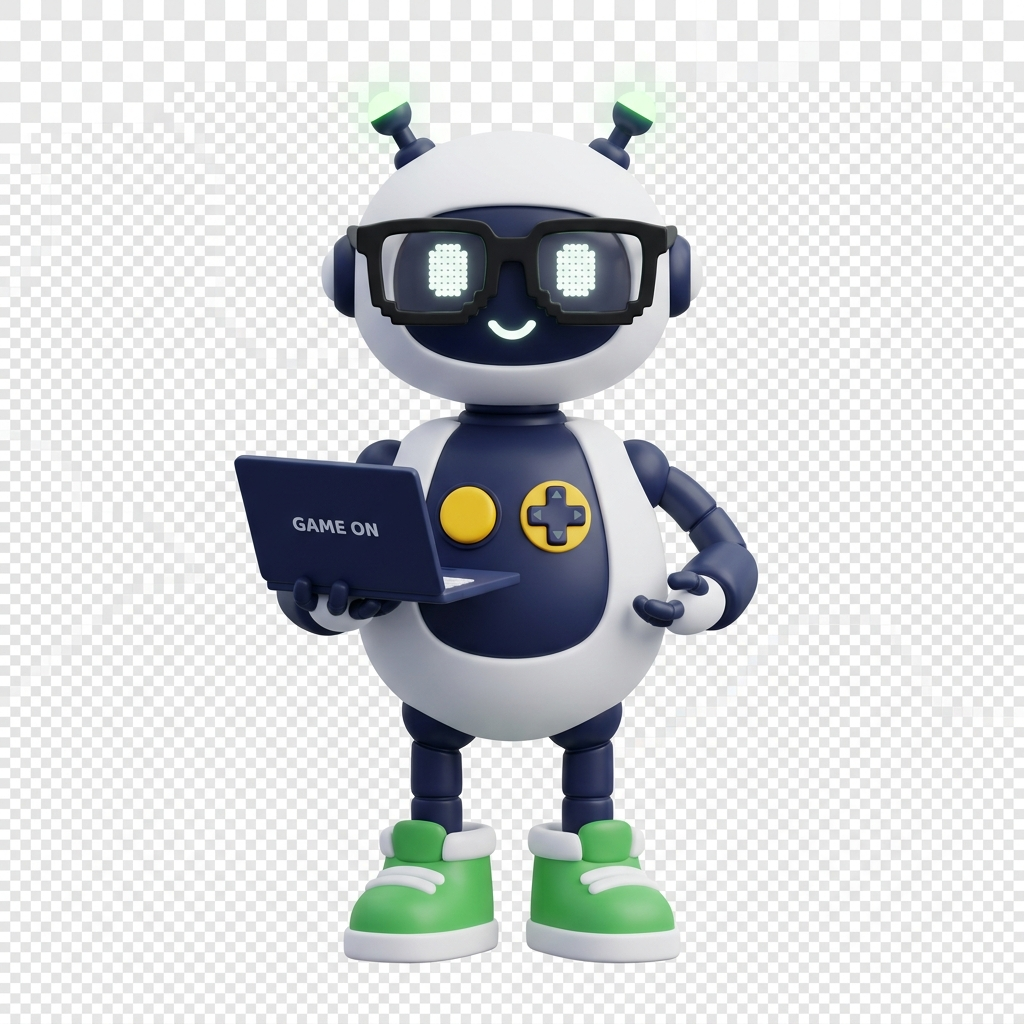
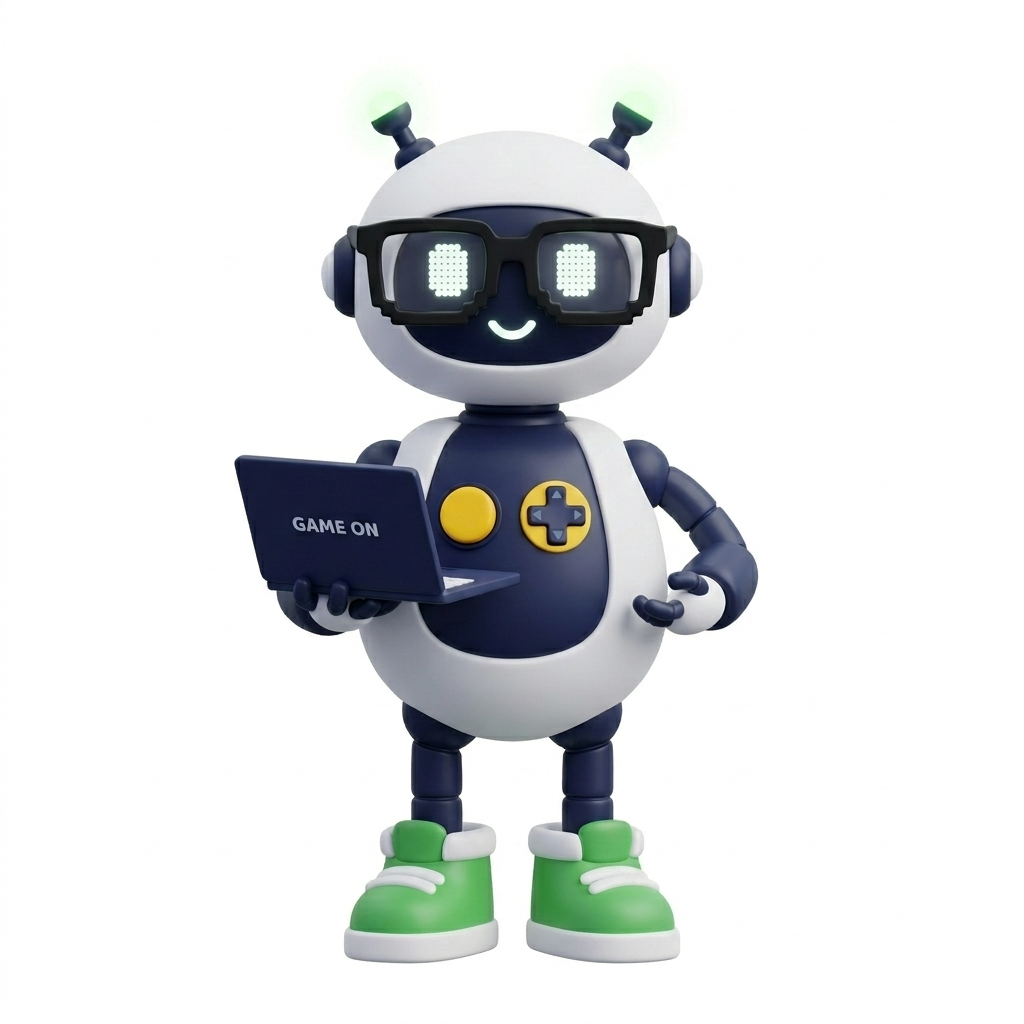
fix: elimina fondo blanco del robot con !important y mix-blend-mode

Changed region(s): [[0.0, 0.0, 1.0, 1.0], [0.6562, 0.5312, 0.6875, 0.5625], [0.625, 0.5, 0.6562, 0.5312]]

diff --git a/static/style.css b/static/style.css
@@ -326,18 +326,22 @@
    ROBOT ANIMADO - Botón del chat
    ========================================================= */
 .chat-bubble {
-    position: fixed;
-    bottom: 1.5rem;
-    left: 1.5rem;
-    width: 90px;
-    height: 90px;
-    background: transparent;
-    border-radius: 0;
-    border: none;
-    cursor: pointer;
+    position: fixed !important;
+    bottom: 1.5rem !important;
+    left: 1.5rem !important;
+    width: 100px !important;
+    height: 100px !important;
+    background: transparent !important;
+    background-color: transparent !important;
+    border-radius: 0 !important;
+    border: none !important;
+    box-shadow: none !important;
+    outline: none !important;
+    cursor: pointer !important;
     display: flex !important;
-    align-items: flex-end;
-    justify-content: center;
+    align-items: flex-end !important;
+    justify-content: center !important;
+    padding: 0 !important;
     transition: all 0.4s cubic-bezier(0.175, 0.885, 0.32, 1.275);
     z-index: 99999 !important;
     padding: 0;
@@ -436,10 +440,14 @@
 }
 
 .chat-bubble img {
-    width: 100%;
-    height: 100%;
-    object-fit: contain;
+    width: 100% !important;
+    height: 100% !important;
+    object-fit: contain !important;
+    mix-blend-mode: multiply;
+    filter: drop-shadow(0 8px 16px rgba(30, 58, 138, 0.5));
     transition: transform 0.4s cubic-bezier(0.175, 0.885, 0.32, 1.275);
+    display: block !important;
+    background: transparent !important;
 }
 
 .chat-bubble:hover {
@@ -447,13 +455,14 @@
 }
 
 .chat-bubble:hover img {
-    transform: scale(1.08);
+    transform: scale(1.1);
+    filter: drop-shadow(0 12px 24px rgba(59, 130, 246, 0.8));
 }
 
 @keyframes robot-wiggle {
     0%, 100% { transform: translateY(-4px) rotate(0deg); }
-    25% { transform: translateY(-6px) rotate(-5deg); }
-    75% { transform: translateY(-6px) rotate(5deg); }
+    25% { transform: translateY(-6px) rotate(-6deg); }
+    75% { transform: translateY(-6px) rotate(6deg); }
 }
 
 /* Botón de WhatsApp Premium */
